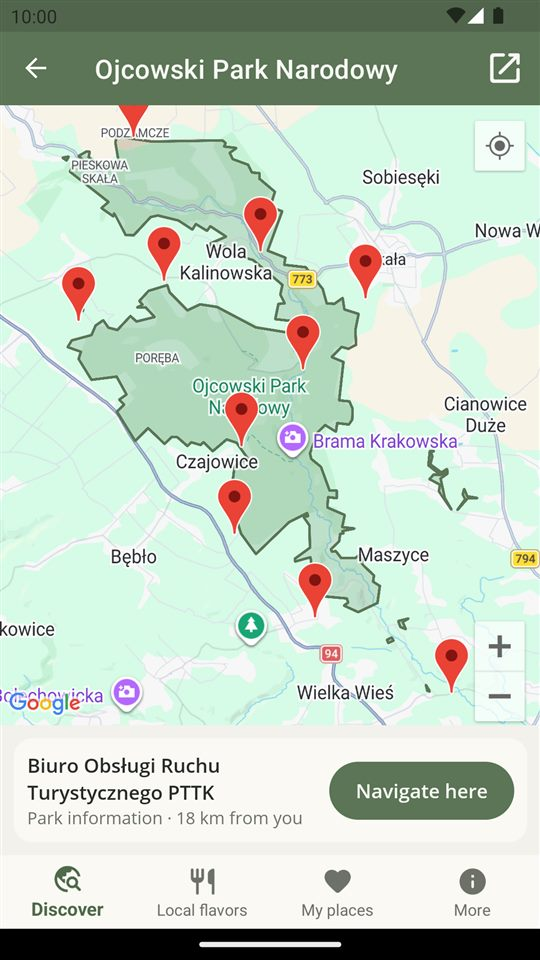
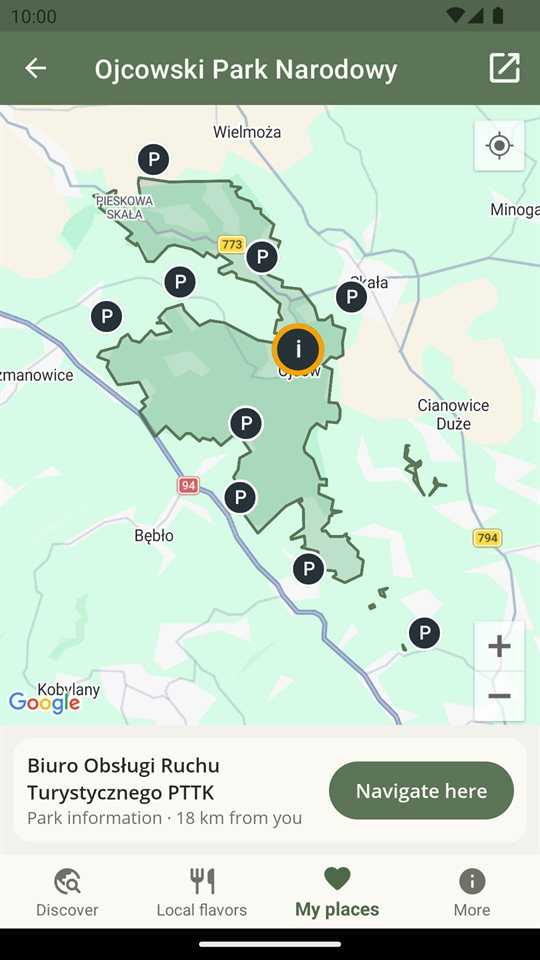
Weekend w regionie: screenshots from version 1.0; OSM attribution in the FAQ
New gallery screenshots (Polish and English): Filters next to "Around",
the selected map pin with its card, P / i access points on the park map,
the visited list layout chips and the visited badge on the place card.
Alt texts describe the selection; the data FAQ credits
"© autorzy OpenStreetMap" / "© OpenStreetMap contributors" (ODbL).

diff --git a/weekend-w-regionie/en.html b/weekend-w-regionie/en.html
@@ -178,8 +178,8 @@
   <section style="padding-top: 0">
     <div class="wrap">
       <div class="shots">
-        <figure><div class="phone"><img src="../assets/img/mapa-en.jpg" alt="Map of Kraków with place pins; visited places have a green check mark" width="540" height="960" loading="lazy"></div><figcaption>Map of the area</figcaption></figure>
-        <figure><div class="phone"><img src="../assets/img/mapa-parku-en.jpg" alt="Map of Ojców National Park with its boundary, access points and the Navigate here button" width="540" height="960" loading="lazy"></div><figcaption>Park boundaries and parking</figcaption></figure>
+        <figure><div class="phone"><img src="../assets/img/mapa-en.jpg" alt="Map of Kraków with place pins; visited places have a green check mark, and the selected swimming area has an amber ring and a card at the bottom" width="540" height="960" loading="lazy"></div><figcaption>Map of the area</figcaption></figure>
+        <figure><div class="phone"><img src="../assets/img/mapa-parku-en.jpg" alt="Map of Ojców National Park with its boundary, parking areas (P), the selected information point (i) and the Navigate here button" width="540" height="960" loading="lazy"></div><figcaption>Park boundaries and parking</figcaption></figure>
         <figure><div class="phone"><img src="../assets/img/zamek-en.jpg" alt="Place card of Wawel Royal Castle with Log visit and Add from photo buttons" width="540" height="960" loading="lazy"></div><figcaption>Place card</figcaption></figure>
         <figure><div class="phone"><img src="../assets/img/odwiedzone-en.jpg" alt="List of visited places with the number of visits, the last visit date and the seasons" width="540" height="960" loading="lazy"></div><figcaption>Places you’ve visited</figcaption></figure>
       </div>
@@ -196,7 +196,7 @@
       <details><summary>Is the app in English?</summary><p>Yes. The app is in English on phones set to any language other than Polish, and you can switch the language in the “More” tab. Place names, addresses and descriptions from the Polish public registers stay in Polish, as in the official data.</p></details>
       <details><summary>Does it work offline?</summary><p>Yes. All the data is inside the app, so the list and the place cards work even with no signal. The map uses Google Maps, so the map background needs an internet connection.</p></details>
       <details><summary>Where does my location go?</summary><p>Nowhere. It is used only on your phone, to sort places by distance and to log visits. Details are in the <a href="privacy-policy.html">privacy policy</a>.</p></details>
-      <details><summary>Where does the data come from?</summary><p>From open public data: dane.gov.pl, the General Directorate for Environmental Protection, the Polish Geological Institute, the National Heritage Board of Poland, the Polish State Forests, the European Environment Agency and OpenStreetMap. The full list is in the app, in the “More” tab.</p></details>
+      <details><summary>Where does the data come from?</summary><p>From open public data: dane.gov.pl, the General Directorate for Environmental Protection, the Polish Geological Institute, the National Heritage Board of Poland, the Polish State Forests, the European Environment Agency and OpenStreetMap (© OpenStreetMap contributors, ODbL). The full list is in the app, in the “More” tab.</p></details>
       <details><summary>Is this an official government app?</summary><p>No. Weekend w regionie is an independent app. It is not affiliated with any government office or public institution. Before you go, check the opening hours on the place’s website.</p></details>
       <details><summary>I found an error in the data. What should I do?</summary><p>Write to <a href="mailto:kontakt@appstorm.eu?subject=Weekend%20w%20regionie">kontakt@appstorm.eu</a>. The data in the app is updated every week.</p></details>
     </div>

diff --git a/weekend-w-regionie/index.html b/weekend-w-regionie/index.html
@@ -177,8 +177,8 @@
   <section style="padding-top: 0">
     <div class="wrap">
       <div class="shots">
-        <figure><div class="phone"><img src="../assets/img/mapa.jpg" alt="Mapa z pinezkami miejsc wokół Krakowa; odwiedzone mają zielony znaczek" width="540" height="960" loading="lazy"></div><figcaption>Mapa okolicy</figcaption></figure>
-        <figure><div class="phone"><img src="../assets/img/mapa-parku.jpg" alt="Mapa Ojcowskiego Parku Narodowego z granicą parku, punktami dojazdu i przyciskiem Nawiguj tutaj" width="540" height="960" loading="lazy"></div><figcaption>Granice parku i dojazd</figcaption></figure>
+        <figure><div class="phone"><img src="../assets/img/mapa.jpg" alt="Mapa z pinezkami miejsc wokół Krakowa; odwiedzone mają zielony znaczek, a wybrane kąpielisko ma bursztynową obwódkę i kartę na dole" width="540" height="960" loading="lazy"></div><figcaption>Mapa okolicy</figcaption></figure>
+        <figure><div class="phone"><img src="../assets/img/mapa-parku.jpg" alt="Mapa Ojcowskiego Parku Narodowego z granicą parku, parkingami (P), wybranym punktem informacji (i) i przyciskiem Nawiguj tutaj" width="540" height="960" loading="lazy"></div><figcaption>Granice parku i dojazd</figcaption></figure>
         <figure><div class="phone"><img src="../assets/img/zamek.jpg" alt="Karta Zamku Królewskiego na Wawelu z przyciskami Zalicz wizytę i Dodaj ze zdjęcia" width="540" height="960" loading="lazy"></div><figcaption>Karta miejsca</figcaption></figure>
         <figure><div class="phone"><img src="../assets/img/odwiedzone.jpg" alt="Lista odwiedzonych miejsc z liczbą wizyt, datą ostatniej wizyty i porami roku" width="540" height="960" loading="lazy"></div><figcaption>Odwiedzone miejsca</figcaption></figure>
       </div>
@@ -194,7 +194,7 @@
       <details><summary>Ile kosztuje aplikacja?</summary><p>Jest bezpłatna, bez reklam i bez konta.</p></details>
       <details><summary>Czy działa bez internetu?</summary><p>Tak. Wszystkie dane są w aplikacji, więc lista i karty miejsc działają także bez zasięgu. Mapa korzysta z map Google, więc do jej podkładu potrzebny jest internet.</p></details>
       <details><summary>Gdzie trafia moja lokalizacja?</summary><p>Nigdzie. Jest używana tylko na telefonie, żeby posortować miejsca według odległości i zaliczyć wizytę. Szczegóły w <a href="polityka-prywatnosci.html">polityce prywatności</a>.</p></details>
-      <details><summary>Skąd są dane?</summary><p>Z otwartych danych publicznych: dane.gov.pl, Generalna Dyrekcja Ochrony Środowiska, Państwowy Instytut Geologiczny, Narodowy Instytut Dziedzictwa, Lasy Państwowe, Europejska Agencja Środowiska i OpenStreetMap. Pełna lista jest w aplikacji w zakładce „Więcej”.</p></details>
+      <details><summary>Skąd są dane?</summary><p>Z otwartych danych publicznych: dane.gov.pl, Generalna Dyrekcja Ochrony Środowiska, Państwowy Instytut Geologiczny, Narodowy Instytut Dziedzictwa, Lasy Państwowe, Europejska Agencja Środowiska i OpenStreetMap (© autorzy OpenStreetMap, licencja ODbL). Pełna lista jest w aplikacji w zakładce „Więcej”.</p></details>
       <details><summary>Czy to aplikacja urzędowa?</summary><p>Nie. Weekend w regionie jest aplikacją niezależną i nie jest powiązana z żadnym urzędem ani instytucją publiczną. Przed wyjazdem sprawdź godziny otwarcia na stronie danego miejsca.</p></details>
       <details><summary>Znalazłem błąd w danych. Co robić?</summary><p>Napisz na <a href="mailto:kontakt@appstorm.eu?subject=Weekend%20w%20regionie">kontakt@appstorm.eu</a>. Dane w aplikacji są aktualizowane co tydzień.</p></details>
     </div>

diff --git a/en.html b/en.html
@@ -277,7 +277,7 @@
         </div>
         <div class="gallery">
           <figure><div class="phone"><img src="assets/img/nocleg-en.jpg" alt="Landscape parks and forest trails around Kraków with a camping badge; a visited park has a green check mark" width="540" height="960" loading="lazy"></div><figcaption>Places nearby</figcaption></figure>
-          <figure><div class="phone"><img src="assets/img/mapa-en.jpg" alt="Map with place pins around Kraków; visited places have a green check mark" width="540" height="960" loading="lazy"></div><figcaption>Map of the area</figcaption></figure>
+          <figure><div class="phone"><img src="assets/img/mapa-en.jpg" alt="Map with place pins around Kraków; visited places have a green check mark, and the selected swimming area has an amber ring and a card at the bottom" width="540" height="960" loading="lazy"></div><figcaption>Map of the area</figcaption></figure>
           <figure><div class="phone"><img src="assets/img/zamek-en.jpg" alt="Place card of Wawel Royal Castle with Log visit and Add from photo buttons" width="540" height="960" loading="lazy"></div><figcaption>Place card</figcaption></figure>
         </div>
       </article>

diff --git a/index.html b/index.html
@@ -275,7 +275,7 @@
         </div>
         <div class="gallery">
           <figure><div class="phone"><img src="assets/img/nocleg.jpg" alt="Parki krajobrazowe i leśne ścieżki w okolicy Krakowa z plakietką nocleg; odwiedzony park ma zielony znaczek" width="540" height="960" loading="lazy"></div><figcaption>Miejsca w pobliżu</figcaption></figure>
-          <figure><div class="phone"><img src="assets/img/mapa.jpg" alt="Mapa z pinezkami miejsc wokół Krakowa; odwiedzone mają zielony znaczek" width="540" height="960" loading="lazy"></div><figcaption>Mapa okolicy</figcaption></figure>
+          <figure><div class="phone"><img src="assets/img/mapa.jpg" alt="Mapa z pinezkami miejsc wokół Krakowa; odwiedzone mają zielony znaczek, a wybrane kąpielisko ma bursztynową obwódkę i kartę na dole" width="540" height="960" loading="lazy"></div><figcaption>Mapa okolicy</figcaption></figure>
           <figure><div class="phone"><img src="assets/img/zamek.jpg" alt="Karta Zamku Królewskiego na Wawelu z przyciskami Zalicz wizytę i Dodaj ze zdjęcia" width="540" height="960" loading="lazy"></div><figcaption>Karta miejsca</figcaption></figure>
         </div>
       </article>
